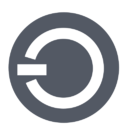
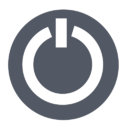
ScalesUI. PVS-Studio analyze

diff --git a/ScalesUI/Forms/MainForm.cs b/ScalesUI/Forms/MainForm.cs
@@ -121,7 +121,7 @@ namespace ScalesUI.Forms
             try
             {
                 System.Resources.ResourceManager resourceManager = new("ScalesUI.Properties.Resources", Assembly.GetExecutingAssembly());
-                object exit = resourceManager.GetObject("exit_2");
+                object exit = resourceManager.GetObject("exit_1");
                 if (exit != null)
                 {
                     Bitmap bmpExit = new((Bitmap)exit);
@@ -511,9 +511,9 @@ namespace ScalesUI.Forms
                 MDSoft.WinFormsUtils.InvokeControl.SetText(fieldMemoryManagerTotal, 
                     SessionState.Manager?.Memory?.MemorySize?.DtChanged?.ToString(@"HH:mm:ss") +
                     $"  {LocalizationData.ScalesUI.MemoryPhysical}: {LocalizationData.ScalesUI.MemoryFree} " +
-                    (SessionState.Manager?.Memory?.MemorySize?.PhysicalFree != null
-                        ? $"{SessionState.Manager?.Memory.MemorySize.PhysicalFree.MegaBytes:N0}" +
-                        $" из {SessionState.Manager.Memory.MemorySize.PhysicalTotal.MegaBytes:N0} MB."
+                    (SessionState.Manager?.Memory?.MemorySize?.PhysicalFree != null && SessionState.Manager.Memory.MemorySize.PhysicalTotal != null
+                        ? $"{SessionState.Manager.Memory.MemorySize.PhysicalFree.MegaBytes:N0}" +
+                          $" из {SessionState.Manager.Memory.MemorySize.PhysicalTotal.MegaBytes:N0} MB."
                         : "- из - MB."));
                 MDSoft.WinFormsUtils.InvokeProgressBar.SetMaximum(fieldMemoryProgress,
                     SessionState.Manager?.Memory?.MemorySize?.PhysicalTotal != null
@@ -533,6 +533,9 @@ namespace ScalesUI.Forms
             SetVisible(ProjectsEnums.TaskType.MassaManager, fieldMassaManager);
             SetVisible(ProjectsEnums.TaskType.MassaManager, fieldMassaComPort);
             SetVisible(ProjectsEnums.TaskType.MassaManager, fieldMassaQueries);
+
+            if (SessionState.Manager.Massa == null)
+                return;
             bool flag = false;
             if (SessionState.CurrentPlu != null)
             {
@@ -568,7 +571,7 @@ namespace ScalesUI.Forms
             MDSoft.WinFormsUtils.InvokeControl.SetText(fieldMassaQueries,
                 $"{LocalizationData.ScalesUI.ScaleQueue}: {SessionState.Manager.Massa.Requests?.Count} {SessionState.Manager.Massa.ProgressStringQueries}");
             SessionState.Manager.Massa.ProgressStringQueries = DataShareCore.Utils.StringUtils.GetProgressString(SessionState.Manager.Massa.ProgressStringQueries);
-            MDSoft.WinFormsUtils.InvokeProgressBar.SetValue(fieldMassaQueriesProgress, SessionState.Manager?.Massa?.Requests != null
+            MDSoft.WinFormsUtils.InvokeProgressBar.SetValue(fieldMassaQueriesProgress, SessionState.Manager.Massa.Requests != null
                 ? SessionState.Manager.Massa.Requests.Count : 0);
 
             if (!flag)
@@ -658,7 +661,7 @@ namespace ScalesUI.Forms
             DataShareCore.Wmi.WmiWin32PrinterEntity win32Printer = SessionState.Manager.Print.Win32Printer();
             if (win32Printer == null)
                 return;
-            using WpfPageLoader wpfPageLoader = new(ProjectsEnums.Page.MessageBox, false, FormBorderStyle.FixedDialog) { Width = 700, Height = 400 };
+            using WpfPageLoader wpfPageLoader = new(ProjectsEnums.Page.MessageBox, false, FormBorderStyle.FixedDialog, 26, 20, 18) { Width = 700, Height = 400 };
             wpfPageLoader.Text = LocalizationData.ScalesUI.PrinterInfoCaption;
             wpfPageLoader.MessageBox.Caption = LocalizationData.ScalesUI.PrinterInfoCaption;
             wpfPageLoader.MessageBox.Message =
@@ -1150,17 +1153,16 @@ namespace ScalesUI.Forms
                 SessionState.Manager.Close();
 
                 // Run app.
-                string fileName = @"C:\Program Files (x86)\Massa-K\ScalesTerminal 100\ScalesTerminal.exe";
-                if (File.Exists(fileName))
+                if (File.Exists(LocalizationData.Paths.ScalesTerminal))
                 {
                     SessionState.Manager.Close();
-                    Proc.Run(fileName, string.Empty, false, ProcessWindowStyle.Normal, true);
+                    Proc.Run(LocalizationData.Paths.ScalesTerminal, string.Empty, false, ProcessWindowStyle.Normal, true);
                 }
                 else
                 {
                     // WPF MessageBox.
                     using WpfPageLoader wpfPageLoader2 = new(ProjectsEnums.Page.MessageBox, false) { Width = 700, Height = 400 };
-                    wpfPageLoader2.MessageBox.Message = LocalizationData.ScalesUI.ProgramNotFound(fileName);
+                    wpfPageLoader2.MessageBox.Message = LocalizationData.ScalesUI.ProgramNotFound(LocalizationData.Paths.ScalesTerminal);
                     wpfPageLoader2.MessageBox.ButtonOkVisibility = System.Windows.Visibility.Visible;
                     wpfPageLoader2.MessageBox.Localization();
                     wpfPageLoader2.ShowDialog(this);

diff --git a/DataProjectsCore/LocalizationData.cs b/DataProjectsCore/LocalizationData.cs
@@ -257,11 +257,6 @@ namespace DataProjectsCore
             #endregion
         }
 
-        public static class MdmControl
-        {
-
-        }
-
         public static class Resources
         {
             #region Main
@@ -400,6 +395,11 @@ namespace DataProjectsCore
             #endregion
         }
 
+        public static class Paths
+        {
+            public const string ScalesTerminal = @"C:\Program Files (x86)\Massa-K\ScalesTerminal 100\ScalesTerminal.exe";
+        }
+
         public static class ScalesUI
         {
             public static List<string> ListLanguages => Lang == ShareEnums.Lang.English
@@ -409,7 +409,6 @@ namespace DataProjectsCore
             public static List<string> ListResolutions => Lang == ShareEnums.Lang.English
                 ? new List<string> { "Maximum", "1024x768", "1366x768", "1600x1024", "1920x1080" }
                 : new List<string> { "Максимальное", "1024x768", "1366x768", "1600x1024", "1920x1080" };
-
             public static string ProgramLoad => Lang == ShareEnums.Lang.English ? @"Loading the program ..." : @"Загрузка программы ...";
             public static string ProgramExit => Lang == ShareEnums.Lang.English ? @"Ending the program ..." : @"Завершение программы ...";
             public static string Exception => Lang == ShareEnums.Lang.English ? @"Exception" : @"Ошибка";
@@ -507,7 +506,6 @@ namespace DataProjectsCore
             public static string QuestionRunApp => Lang == ShareEnums.Lang.English ? @"Run the app" : @"Запустить приложение";
             public static string ChoosePlu => Lang == ShareEnums.Lang.English
                 ? @"First, you have to choose a PLU!" : @"Сперва, необходимо выбрать PLU!";
-
             public static string ButtonRunScalesTerminal => Lang == ShareEnums.Lang.English ? @"Scales Terminal" : @"Весовой терминал";
             public static string ButtonScalesInit => Lang == ShareEnums.Lang.English
                 ? $@"Initialize{Environment.NewLine}the scales" : $@"Инициали-{Environment.NewLine}зировать весы";
@@ -519,7 +517,6 @@ namespace DataProjectsCore
                 ? $@"Select{Environment.NewLine}PLU" : $@"Выбрать{Environment.NewLine}PLU";
             public static string ButtonSetKneading => Lang == ShareEnums.Lang.English ? @"More" : @"Ещё";
             public static string ButtonPrint => Lang == ShareEnums.Lang.English ? @"Print" : @"Печать";
-
             public static string FieldCurrentTime => Lang == ShareEnums.Lang.English ? @"Now" : @"Сейчас";
             public static string FieldWeightNetto => Lang == ShareEnums.Lang.English ? @"Net weight" : @"Вес нетто";
             public static string FieldWeightTare => Lang == ShareEnums.Lang.English ? @"Tare weight" : @"Вес тары";

diff --git a/ScalesUI/Properties/Resources.Designer.cs b/ScalesUI/Properties/Resources.Designer.cs
@@ -63,6 +63,16 @@ namespace ScalesUI.Properties {
         /// <summary>
         ///   Looks up a localized resource of type System.Drawing.Bitmap.
         /// </summary>
+        public static System.Drawing.Bitmap exit_1 {
+            get {
+                object obj = ResourceManager.GetObject("exit_1", resourceCulture);
+                return ((System.Drawing.Bitmap)(obj));
+            }
+        }
+        
+        /// <summary>
+        ///   Looks up a localized resource of type System.Drawing.Bitmap.
+        /// </summary>
         public static System.Drawing.Bitmap exit_2 {
             get {
                 object obj = ResourceManager.GetObject("exit_2", resourceCulture);

diff --git a/ScalesUI/Forms/MainForm.Designer.cs b/ScalesUI/Forms/MainForm.Designer.cs
@@ -452,7 +452,7 @@
             this.pictureBoxClose.BackColor = System.Drawing.Color.Transparent;
             this.pictureBoxClose.BackgroundImageLayout = System.Windows.Forms.ImageLayout.Zoom;
             this.pictureBoxClose.Dock = System.Windows.Forms.DockStyle.Fill;
-            this.pictureBoxClose.Image = global::ScalesUI.Properties.Resources.exit_2;
+            this.pictureBoxClose.Image = global::ScalesUI.Properties.Resources.exit_1;
             this.pictureBoxClose.Location = new System.Drawing.Point(1051, 68);
             this.pictureBoxClose.Name = "pictureBoxClose";
             this.pictureBoxClose.Size = new System.Drawing.Size(112, 77);

diff --git a/ScalesUI/Properties/AssemblyInfo.cs b/ScalesUI/Properties/AssemblyInfo.cs
@@ -32,6 +32,6 @@ using System.Runtime.InteropServices;
 // Можно задать все значения или принять номер сборки и номер редакции по умолчанию.
 // используя "*", как показано ниже:
 // [assembly: AssemblyVersion("1.0.*")]
-[assembly: AssemblyVersion("0.6.020.0")]
-[assembly: AssemblyFileVersion("0.6.020.0")]
+[assembly: AssemblyVersion("0.6.030.0")]
+[assembly: AssemblyFileVersion("0.6.030.0")]
 

diff --git a/DataShareCore/Models/IDisposableBase.cs b/DataShareCore/Models/IDisposableBase.cs
@@ -1,7 +1,6 @@
 // This is an independent project of an individual developer. Dear PVS-Studio, please check it.
 // PVS-Studio Static Code Analyzer for C, C++, C#, and Java: http://www.viva64.com
 
-using System.Runtime.CompilerServices;
 namespace DataShareCore.Models
 {
     public interface IDisposableBase

diff --git a/DataShareCore/Helpers/ArchiveHelper.cs b/DataShareCore/Helpers/ArchiveHelper.cs
@@ -1,7 +1,6 @@
 // This is an independent project of an individual developer. Dear PVS-Studio, please check it.
 // PVS-Studio Static Code Analyzer for C, C++, C#, and Java: http://www.viva64.com
 
-using System;
 using System.IO;
 using System.IO.Compression;
 using System.Threading;

diff --git a/ScalesUI/CHANGELOG.md b/ScalesUI/CHANGELOG.md
@@ -6,9 +6,10 @@ and this project adheres to [Semantic Versioning](https://semver.org/spec/v2.0.0
 
 ## [Unreleased]
 
-## [0.6.020] - 2022-01-14
+## [0.6.030] - 2022-01-17
 ### Fixed
-- 
+- PVS-Studio analyze
+- Exit image
 
 ## [0.5.920] - 2021-12-07
 ### Fixed
